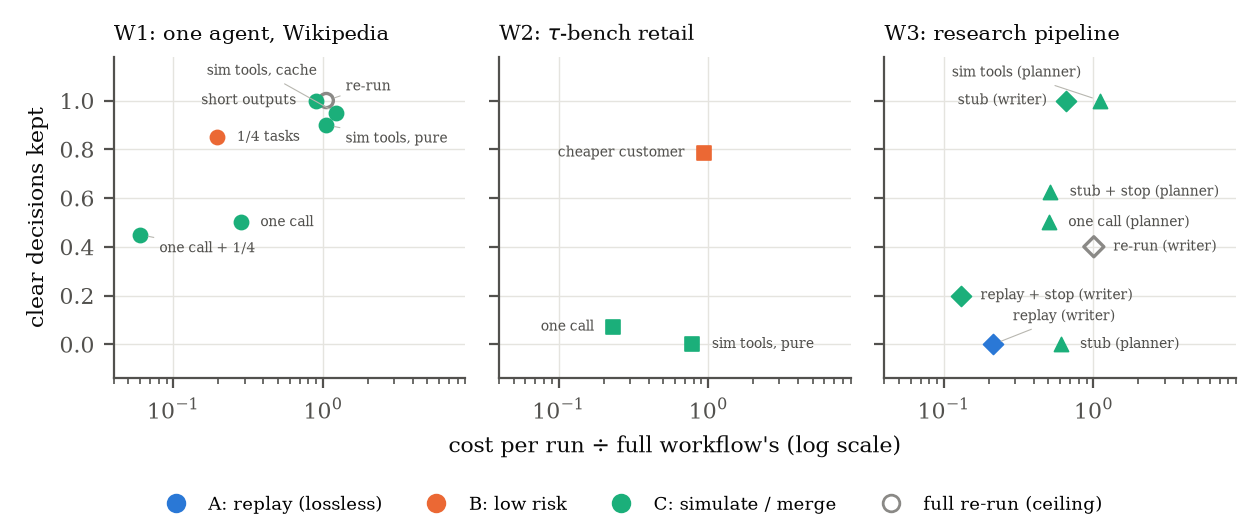
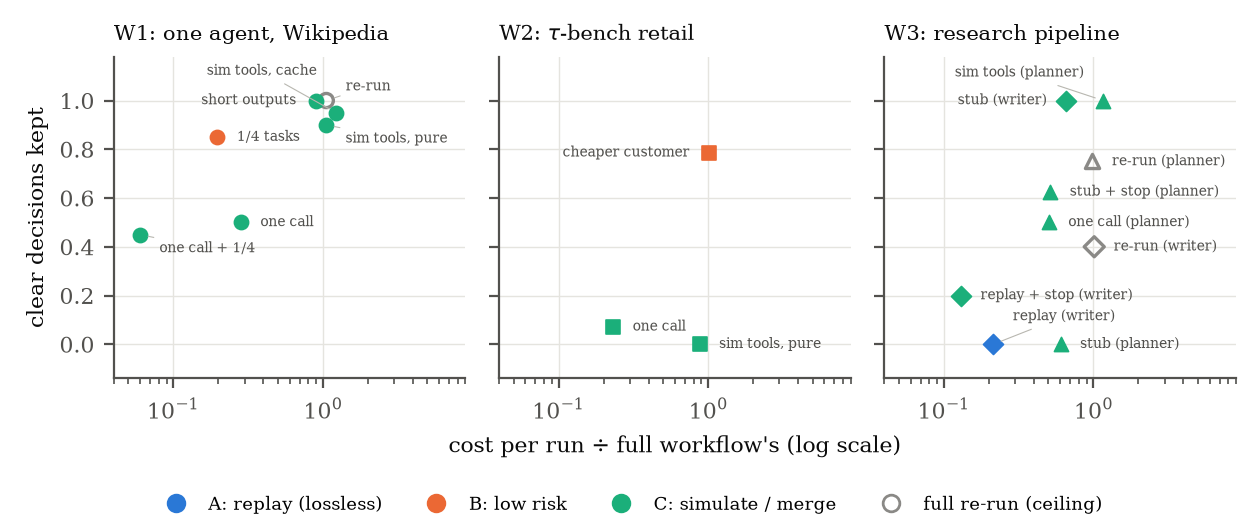
Paper and docs: final numbers, stateful-tools limit, budget, planner ceiling

diff --git a/paper/sections/06-results.tex b/paper/sections/06-results.tex
@@ -12,17 +12,24 @@ differ clearly from the base (caps of two and three agent steps); in W2, two of 
 confirmation, an eight-step cap); in W3's writer group, only two of five clear pairs survive a re-run. The ceiling rows
 make this concrete: re-running the full W1 workflow reproduces its ranking only moderately
 (Kendall $\tau=0.67$) but keeps every clear decision (20/20); re-running W3's writer group
-reproduces neither ($\tau=-0.05$; 2 of 5 ``clear'' pairs). A miniature should therefore be judged by
+reproduces neither ($\tau=-0.05$; 2 of 5 ``clear'' pairs), and re-running its planner group keeps
+6 of 8 ($\tau=0.32$). A miniature should therefore be judged by
 whether it settles the same \emph{clear} decisions, and by how close it comes to the ceiling on the
 rest.
 
-\paragraph{Simulated tools keep decisions.}
+\paragraph{Simulated tools keep decisions, if the simulator can know the answer.}
 Replacing tools by an LLM simulator kept 18--19 of 20 clear W1 decisions and every clear decision
 about W3's planner (8/8), with rankings close to the ceiling (W1: $\tau=0.54$--$0.61$ against
-$0.67$). Grounding helps: the cache-first simulator, which replays recorded outputs and invents only
+$0.67$; W3 planner: $0.63$ against the re-run's $0.32$, a gap within noise at eight pairs). Grounding helps: the cache-first simulator, which replays recorded outputs and invents only
 unseen ones, beat the pure simulator on every measure, including the judge's reasons ($\pi=0.41$
 against $0.27$; ceiling $0.57$). The pure simulator shifts \emph{why} runs fail: retrieval misses
-nearly triple, because invented pages lack the facts. \todo{W2 simulated shop tools.}
+nearly triple, because invented pages lack the facts.
+W2 shows the limit, as the fakeability rule (Section~\ref{sec:method}) predicts. Its tools read and
+write a private shop database. A pure simulator cannot know which customers, orders and items
+exist, so it reported real customers as not found: 260 of 320 simulated runs ended in a hand-over
+to a human agent (63 of 320 in the full workflow), every variant scored 0.07, and no clear decision
+survived (0 of 14). Tools whose answers depend on hidden state must be replayed, or their simulator
+given that state.
 
 \paragraph{Merging calls loses effects that act through tools.}
 Running an agent loop as one call that imagines its tool results kept only half of W1's clear
@@ -43,6 +50,8 @@ full workflow disagrees with its own re-run just as much, because each full run 
 research. With the research held fixed, the writer variants are revealed to differ very little,
 which is consistent with the full workflow's own ``ignore the notes'' mutant scoring 0.81 against
 the base's 0.82. Without the ceiling, the replay miniature would have been wrongly judged invalid.
+For the same reason, the stubbed-researcher miniature's agreement on all five writer pairs
+(Figure~\ref{fig:cost}) says little: the full workflow itself keeps only two of them.
 
 \paragraph{Fewer tasks and shorter outputs.}
 A random quarter of the tasks kept 17 of 20 clear W1 decisions at 0.20$\times$ the cost, and
@@ -54,9 +63,12 @@ the agent read slightly more pages (0.91 per run against 0.83).
 Keeping decisions does not guarantee keeping diagnoses. In W1, cache-first simulation, shorter
 outputs and fewer tasks keep the judge's reasons close to the ceiling ($\pi$ 0.41--0.54 against
 0.57); pure simulation keeps decisions but not reasons ($\pi=0.27$); fused miniatures keep neither
-($\pi$ 0.13--0.17). Fixes transfer accordingly, though the effects are small: three fixes Claude
-wrote from the full workflow's failures improved it by $+2.9$ points on average (two of three
-helped); three written from the fused miniature's failures changed it by $-0.8$ (none helped).
+($\pi$ 0.13--0.17). Fixes transfer in the same order, though the effects are small: a blind
+Claude instance wrote three fixes from each source's failures on 20 development questions. Fixes
+from the full workflow improved it by $+2.9$ points on average (two of three helped), fixes from the
+cache-first simulator by $+1.3$ (two of three), and fixes from the fused miniature by $-0.8$ (none).
+No single fix moved the score by more than two standard errors, so this ordering is a hint, not a
+result.
 
 \paragraph{A different model family.}
 Read as a miniature of the Gemini run, the OpenAI run of W1 kept 13 of 14 clear decisions

diff --git a/paper/tables/main.tex b/paper/tables/main.tex
@@ -14,20 +14,21 @@ Miniature & Ops & Cost & Time & Clear pairs kept & Kendall $\tau$ & MMRV & Reaso
 \quad One call + fewer tasks & C2 B4 & 0.06$\times$ & 0.20$\times$ & 9/20 & 0.25 & 0.14 & 0.13 \\
 \addlinespace
 \multicolumn{8}{@{}l}{\textit{W2 ($\tau$-bench retail; 8 variants)}} \\
-\quad Cheaper simulated customer & B3 & 0.94$\times$ & 1.46$\times$ & 11/14 & 0.73 & 0.10 & -0.47 \\
-\quad Simulated tools, pure & C1 & 0.79$\times$ & 1.28$\times$ & 0/4 & 0.67 & 0.04 & -0.43 \\
-\quad Whole conversation as one call & C2 & 0.23$\times$ & 0.13$\times$ & 1/14 & -0.56 & 0.54 & -0.09 \\
+\quad Cheaper simulated customer & B3 & 1.01$\times$ & 1.46$\times$ & 11/14 & 0.73 & 0.10 & 0.48 \\
+\quad Simulated tools, pure & C1 & 0.88$\times$ & 1.23$\times$ & 0/14 & -- & 0.20 & $-$0.13 \\
+\quad Whole conversation as one call & C2 & 0.23$\times$ & 0.13$\times$ & 1/14 & $-$0.56 & 0.54 & $-$0.09 \\
 \addlinespace
 \multicolumn{8}{@{}l}{\textit{W3, focus: planner (7 variants)}} \\
-\quad Simulated researcher tools & C1 & 1.11$\times$ & 1.03$\times$ & 8/8 & 0.63 & 0.04 & 0.26 \\
-\quad Stubbed researchers & C4 & 0.60$\times$ & 0.41$\times$ & 0/8 & -0.73 & 0.11 & 0.24 \\
+\quad \textbf{Full workflow, re-run (ceiling)} & -- & 0.99$\times$ & 0.95$\times$ & 6/8 & 0.32 & 0.05 & 0.30 \\
+\quad Simulated researcher tools & C1 & 1.16$\times$ & 1.01$\times$ & 8/8 & 0.63 & 0.04 & 0.26 \\
+\quad Stubbed researchers & C4 & 0.60$\times$ & 0.41$\times$ & 0/8 & $-$0.73 & 0.11 & 0.24 \\
 \quad Stubbed + slice + stop early & C4 B1 C5 & 0.51$\times$ & 0.41$\times$ & 5/8 & 0.11 & 0.08 & 0.14 \\
 \quad Whole pipeline as one call & C2 & 0.50$\times$ & 0.14$\times$ & 4/8 & 0.05 & 0.09 & 0.06 \\
 \addlinespace
 \multicolumn{8}{@{}l}{\textit{W3, focus: writer (7 variants)}} \\
-\quad \textbf{Full workflow, re-run (ceiling)} & -- & 1.01$\times$ & 1.44$\times$ & 2/5 & -0.05 & 0.06 & 0.38 \\
-\quad Replay planner and research & A1 A2 A3 & 0.21$\times$ & 0.15$\times$ & 0/5 & -0.47 & 0.08 & 0.41 \\
-\quad Replay + slice + stop early & A B1 C5 & 0.13$\times$ & 0.05$\times$ & 1/5 & -0.50 & 0.08 & 0.23 \\
+\quad \textbf{Full workflow, re-run (ceiling)} & -- & 1.01$\times$ & 1.44$\times$ & 2/5 & $-$0.05 & 0.06 & 0.38 \\
+\quad Replay planner and research & A1 A2 A3 & 0.21$\times$ & 0.15$\times$ & 0/5 & $-$0.47 & 0.08 & 0.41 \\
+\quad Replay + slice + stop early & A B1 C5 & 0.13$\times$ & 0.05$\times$ & 1/5 & $-$0.50 & 0.08 & 0.23 \\
 \quad Stubbed researchers & C4 & 0.66$\times$ & 0.40$\times$ & 5/5 & 0.39 & 0.04 & 0.22 \\
 \bottomrule
 \end{tabular}

diff --git a/paper/sections/01-intro.tex b/paper/sections/01-intro.tex
@@ -38,9 +38,10 @@ We make four contributions.
   customer-service agent on $\tau$-bench, and a five-role research pipeline) with 7--18 variants
   each, including deliberately broken ones, and sixteen miniatures.
 \end{enumerate}
-Three findings stand out. Simulated tools keep decisions: grounded in recorded outputs, a
-simulator matched the full workflow on 19 of 20 clear decisions in the agent workflow and on all 8
-in the research pipeline, close to the noise ceiling. Merged calls do not: when one LLM call writes
+Three findings stand out. Simulated tools keep decisions when the simulator can know the
+answer: it matched the full workflow on 18--19 of 20 clear decisions in the agent workflow (19 when
+grounded in recorded outputs) and on all 8 in the research pipeline, close to the noise ceiling;
+over $\tau$-bench's private database, which a simulator cannot see, it kept none. Merged calls do not: when one LLM call writes
 an agent's whole run with imagined tool results, every variant scores about the same, because the
 model imagines whatever its plan needs; the effect of a two-step limit, which halves the real
 agent's accuracy, disappears. And the noise ceiling matters: in the research pipeline the full

diff --git a/paper/sections/00-abstract.tex b/paper/sections/00-abstract.tex
@@ -7,8 +7,9 @@ implement thirteen reduction operators behind a single interception point, so th
 unmodified workflow code, and test sixteen miniatures of three workflows (a Wikipedia question
 answering agent, a $\tau$-bench customer-service agent, and a five-role research pipeline) over
 7--18 variants each, judged blind by an LLM. Simulating tools kept 90--100\% of the decisions the
-full workflow could settle, closest to the ceiling when the simulator was grounded in recorded
-outputs. Merging an agent's calls into one call with imagined tool results kept about half, no
+full workflow could settle when the tools' answers did not depend on hidden state, closest to the
+ceiling when the simulator was grounded in recorded outputs; over a private shop database it kept
+none. Merging an agent's calls into one call with imagined tool results kept about half, no
 better than chance, because it measures what the model knows rather than how the workflow behaves.
 Replaying unchanged steps was lossless, and exposed full evaluations that are mostly noise. We
 release the library, the traces and every judge answer.

diff --git a/paper/sections/05-setup.tex b/paper/sections/05-setup.tex
@@ -31,8 +31,8 @@ researchers (alone and with slicing and early stopping) and the whole pipeline a
 
 \paragraph{Ground truth and the noise ceiling.}
 Every variant runs once on every task under the full workflow. A second full run with fresh samples
-gives the noise ceiling, for W1 and for W3's writer group (budget did not allow one for W2 or
-W3's planner group).
+gives the noise ceiling, for W1 and for both of W3's focus groups (budget did not allow one for
+W2).
 
 \paragraph{Statistics.}
 Scores are task means. Pairwise differences use paired standard errors over tasks; a pair is
@@ -44,5 +44,6 @@ published prices; latencies are wall-clock per call, reported as medians per run
 
 \paragraph{Budget.}
 The whole study, including two complete ground truths for W1 (one per model family), cost
-\todo{\$X} in API calls under a hard cap enforced before every call. Judging used a Claude
+\$74.4 in API calls (\$72.1 on Gemini, \$2.3 on OpenAI), pilot runs included, under a hard cap
+enforced before every call. Judging used a Claude
 subscription and no API spend.

diff --git a/paper/sections/08-conclusion.tex b/paper/sections/08-conclusion.tex
@@ -3,7 +3,8 @@
 A miniature of an agent workflow can make the same decisions as the full workflow at a fraction
 of its cost, but only some miniatures can. The rule that held across our three workflows is short:
 keep real what you change, replay what you did not change, fake the tools rather than the agent's
-thinking, and ground the fakes in what the real tools returned. Shortcuts that let the model imagine
+thinking, ground the fakes in what the real tools returned, and never fake a tool whose answer
+depends on state the fake cannot see. Shortcuts that let the model imagine
 the results of its own actions (merged calls, stubbed sub-agents, a whole pipeline in one call)
 measure the model's knowledge, not the workflow's behaviour, and fail exactly where the change under
 test acts through the tools.

diff --git a/paper/sections/07-limits.tex b/paper/sections/07-limits.tex
@@ -24,6 +24,10 @@ instead of removing tool cost. In workflows whose tools are paid, slow, rate-lim
 effects, the same operators save far more; their validity, which is what we measure, does not
 depend on the tools' price.
 
+\paragraph{No grounded simulator for the stateful workflow.}
+Budget allowed only the pure tool simulator on W2. A simulator grounded in recorded outputs, or
+given read access to the database, may keep W2's decisions; we leave that test open.
+
 \paragraph{Miniatures can be overfitted.}
 A team that optimises against one miniature for long enough may learn its quirks (a simulator's
 habits, a stub's blind spots), a form of Goodhart's law \citep{manheim2018categorizing}. Periodic

diff --git a/docs/06-RESULTS.md b/docs/06-RESULTS.md
@@ -1,14 +1,17 @@
 # 06 · Results: which minis keep the evaluation valid?
 
 Data from 14–15 Oct 2026. Gemini on Vertex; Claude Code (Sonnet 5.5) as the blind judge.
-Full tables: [results/summary.md](../results/summary.md). Spend: about $70 of the $75 cap.
+Full tables: [results/summary.md](../results/summary.md). Spend: $72.13 of the $75 Gemini cap,
+plus $2.30 on OpenAI (W1 cross-family run).
 
 ---
 
 ## Short answer
 
-1. **Your idea 1, simulated tools, works.** It kept 90–100% of the clear decisions in W1 and in
-   W3's planner tests. It works best when grounded in recorded real outputs ("cache first").
+1. **Your idea 1, simulated tools, works, if the simulator can know the answer.** It kept
+   90–100% of the clear decisions in W1 and in W3's planner tests. It works best when grounded in
+   recorded real outputs ("cache first"). On τ-bench it kept **none**: the tools read a private
+   shop database, which the simulator cannot see.
 2. **Your idea 2, merging calls with imagined tool results, fails** whenever the change you test
    acts *through* the tools: step limits, search strategy, planning. It kept ~50% of clear
    decisions, which is a coin flip. On τ-bench it breaks completely: the model invents customer and
@@ -32,7 +35,7 @@ Full tables: [results/summary.md](../results/summary.md). Spend: about $70 of th
 | **What** | The full workflow run a second time, with fresh samples. |
 | **Why** | Agents are random, and test sets are small. The full evaluation does not even agree with itself. No mini can beat that. |
 | **When** | Read every mini against it, not against perfection. |
-| **Where** | The `full-rerun` / `W-rerun` rows. |
+| **Where** | The `full-rerun` / `W-rerun` / `P-rerun` rows. |
 | **How** | Compute the same agreement numbers between the full workflow and its own re-run. |
 
 **Columns**
@@ -70,13 +73,15 @@ Full tables: [results/summary.md](../results/summary.md). Spend: about $70 of th
 
 | Mini | Cost | Speed | Clear kept | Ranking τ | Reasons π |
 |---|---|---|---|---|---|
-| Simulated researcher tools | 1.11× | 1.03× | **100%** (8/8) | 0.63 | 0.26 |
+| **Ceiling (full re-run)** | 0.99× | 0.95× | 75% (6/8) | 0.32 | 0.30 |
+| Simulated researcher tools | 1.16× | 1.01× | **100%** (8/8) | 0.63 | 0.26 |
 | Stubbed researchers (one imagined call each) | 0.60× | 0.41× | 0% | −0.73 | 0.24 |
 | Stubbed + no review + no summary | 0.51× | 0.41× | 62% | 0.11 | 0.14 |
 | Whole pipeline as one call | 0.50× | 0.14× | 50% | 0.05 | 0.06 |
 
 The planner's effect acts through what gets searched. Faking the *tools* keeps it. Faking the
-*researchers* erases it.
+*researchers* erases it. Simulated tools even matched the full workflow better than its own
+re-run did, but with only 8 clear pairs that gap is noise: read it as "as good as the ceiling".
 
 **Focus: the writer (7 variants)**
 
@@ -96,21 +101,28 @@ the mini.**
 
 | Mini | Cost | Speed | Clear kept | Broken caught | Ranking τ |
 |---|---|---|---|---|---|
-| Cheaper simulated customer | 0.94× | 1.46× | 79% | 1/2 | 0.73 |
-| Simulated shop tools (database) | *running* | | | | |
+| Cheaper simulated customer | 1.01× | 1.46× | 79% | 1/2 | 0.73 |
+| **Simulated shop tools (pure)** | 0.88× | 1.23× | 0% | 0/2 | – (all tied) |
 | **Whole conversation as one call** | 0.23× | 0.13× | 7% | 0/2 | −0.56 |
 
 As one call, the model invents IDs (`yusuf_rossi_123`, `item_kb_02`). Its "actions" fail on the real
 database, so every variant scores 7%: just the tasks that need no changes.
 
+Simulated shop tools fail the same way, for a different reason. The simulator cannot see the
+database, so it says real customers are "not found". The agent cannot verify the customer and
+hands over to a human: 260 of 320 runs, against 63 of 320 in the full workflow. Every variant
+again scores 7%. A grounded simulator (recordings, or read access to the database) may fix this;
+the budget did not allow that test.
+
 ## Fix transfer (W1)
 
-Claude wrote 3 fixes from the full workflow's failures and 3 from the merged-call mini's
-failures, without knowing which was which. All 6 were scored on the full workflow.
+Claude wrote 3 fixes from each source's failures (20 dev questions), without knowing the source.
+All 9 were scored on the full workflow (80 test questions).
 
 | Fixes written from | Mean change on the full workflow | Helped |
 |---|---|---|
 | Full workflow's failures | +2.9 points | 2 of 3 |
+| Simulated-tools mini's failures (cache first) | +1.3 points | 2 of 3 |
 | Merged-call mini's failures | −0.8 points | 0 of 3 |
 
 Same direction as everything else, but small and within noise. Treat it as a hint.
@@ -130,7 +142,7 @@ different models fail differently.
 | Replay what didn't change | Identical inputs → identical outputs. Cheapest valid mini. |
 | Fake tools, not the agent's thinking | Simulated tools kept decisions; merged/stubbed calls didn't. |
 | Ground fakes in recordings | Cache-first beat pure on every column in W1. |
-| Don't fake stateful worlds from scratch | τ-bench one-call mini invented IDs. |
+| Don't fake stateful worlds from scratch | τ-bench: one-call mini invented IDs; pure simulated tools could not find real customers. Both: every variant 7%. |
 | Always measure the noise ceiling | W3 writer: the "invalid" mini was really a noisy full eval. |
 
 ## Caveats
@@ -138,5 +150,5 @@ different models fail differently.
 - Small test sets (40–80 tasks). Most variant differences are within noise.
 - One model family per workflow (W1 also on OpenAI).
 - The judge is Claude, not people. Its reasons come from a fixed list per workflow.
-- No noise ceiling for W3's planner group or τ-bench (budget).
+- No noise ceiling for τ-bench, and no grounded tool simulator there (budget).
 - Tools here are free, which understates the savings of simulation.

diff --git a/README.md b/README.md
@@ -2,8 +2,9 @@
 
 **Cheap mini versions of agent workflows that keep your evals valid.**
 
-Status (14 Oct 2026): library + 3 workflows built; experiments running on Gemini (Vertex), $40 cap.
-Paper draft started in [paper/](paper/). Private repo: github.com/harshmandalgi/similitude.
+Status (15 Oct 2026): experiments done ($72.13 of a $75 Gemini cap, plus $2.30 on OpenAI); results in
+[docs/06-RESULTS.md](docs/06-RESULTS.md); full preprint draft in [paper/](paper/), not yet read
+through or posted. Private repo: github.com/harshmandalgi/similitude.
 
 ---
 
